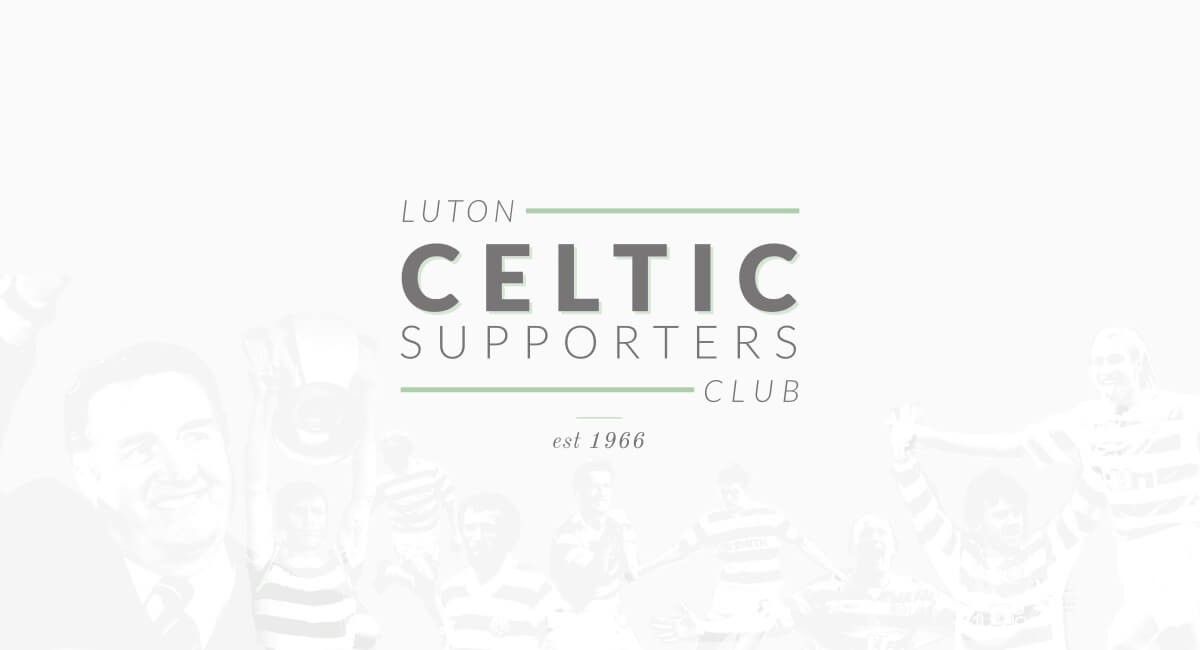
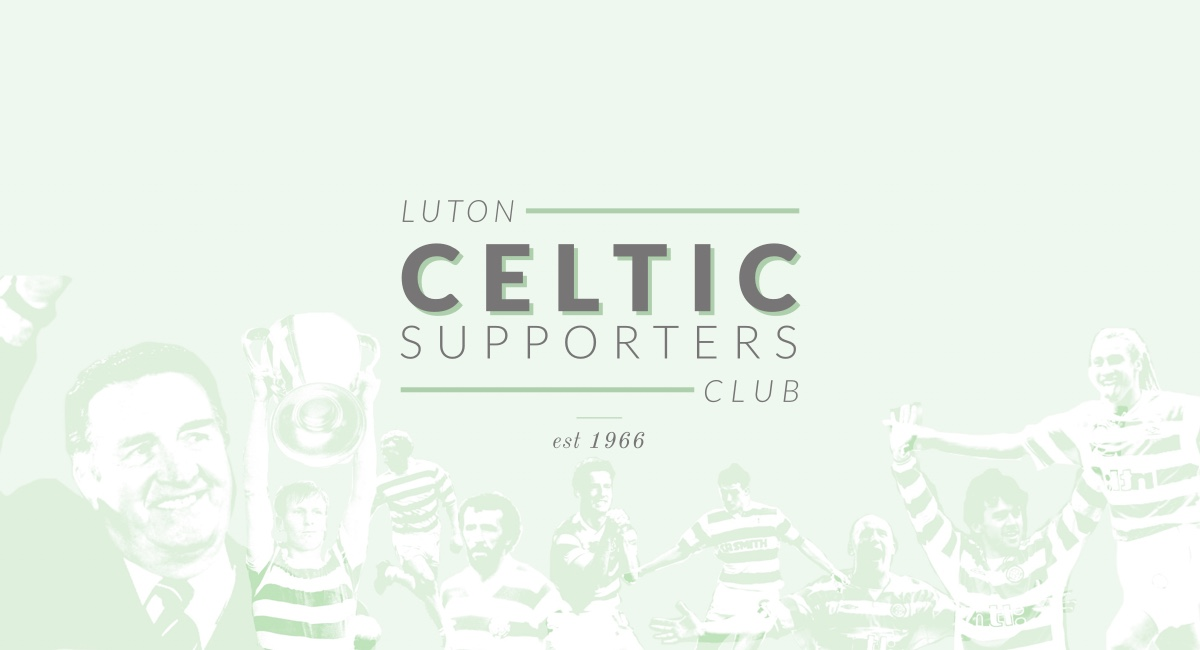
tweaks

diff --git a/src/scss/modules/home/_about-card.scss b/src/scss/modules/home/_about-card.scss
@@ -1,9 +1,14 @@
 .about-card {
-  background-color: $white;
+  background-color: $alt-green;
 
-  img {
+  .default-card__img {
+    position: absolute;
+    top: 50%;
+    left: 50%;
+    height: 100%;
     width: 200px;
-    opacity: .2;
+    opacity: .6;
+    @include transform(translate(-50%, -50%));
   }
 
   hr {
@@ -25,7 +30,7 @@
 
   .card__content-title {
     font-family: $primary-font;
-    text-shadow: 3px 3px 0px #D6E8D6;
+    text-shadow: 2px 2px 0px $green;
     margin-bottom: 0;
     quotes: "“" "”" "‘" "’";
     font-weight: 900;

diff --git a/src/scss/base/project/_variables.scss b/src/scss/base/project/_variables.scss
@@ -11,6 +11,7 @@ $off-white: #F5F5F5;
 $dk-green: #99AF9A;
 $green: #ADCFAB;
 $lt-green: #D6E7D5;
+$alt-green: #EEF8EF;
 $gold: #FFFD98;
 $red: #E26D5A;
 
